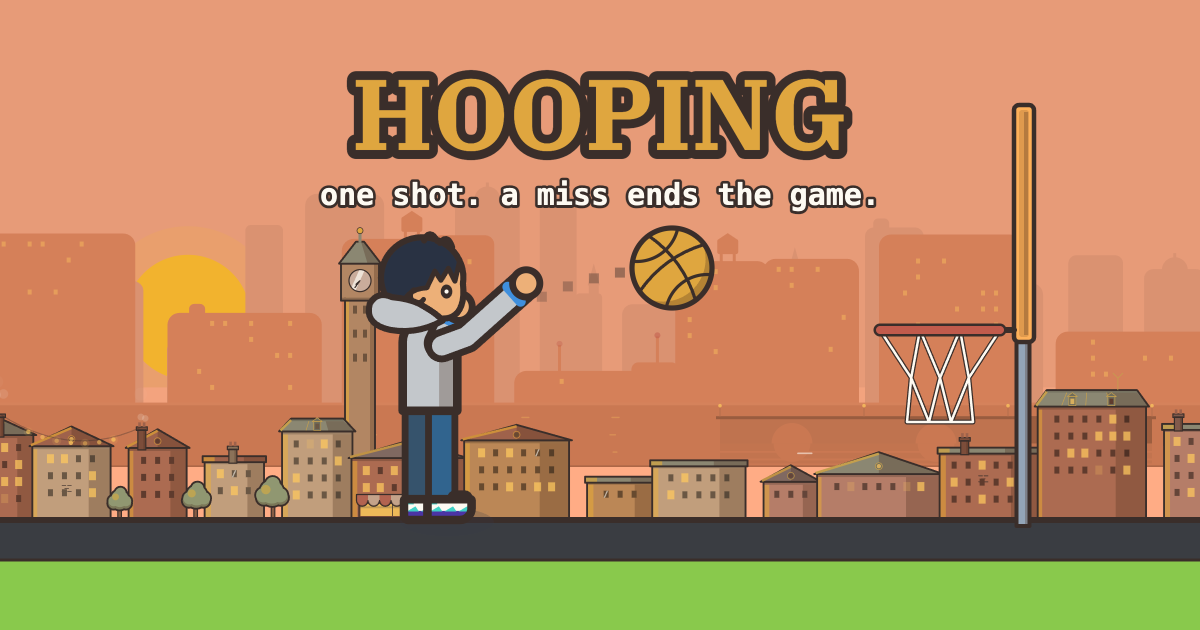
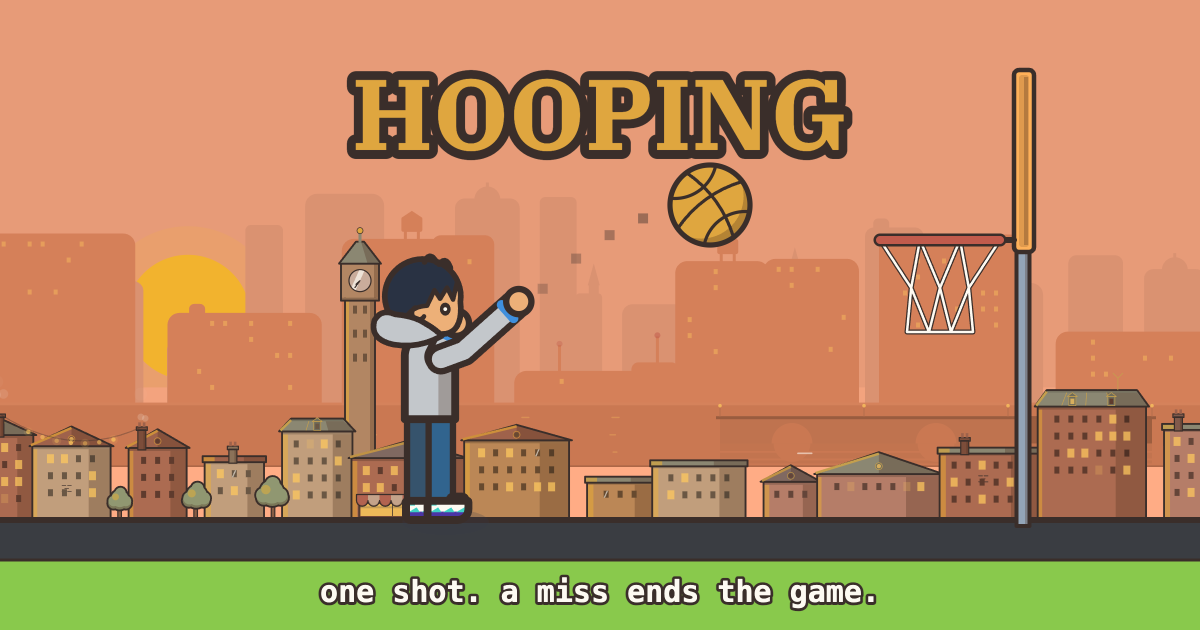
share: raise the unfurl card's rim above the shooter

diff --git a/components/Hoop.tsx b/components/Hoop.tsx
@@ -4535,13 +4535,14 @@ export function Hoop() {
     ctx.lineTo(W, grassY + 40);
     ctx.stroke();
 
-    // the hoop — board, iron, net in the live scene's proportions,
-    // planted at the right edge so the shot has somewhere to land
+    // the hoop — board, iron, net, planted at the right edge so the
+    // shot has somewhere to land. The iron rides well above the
+    // shooter's head: a rim at shoulder height reads as a toy
     const frontX = 880;
     const backX = frontX + 120;
-    const rimY = 330;
+    const rimY = 240;
     const boardX = backX + 14;
-    const bTop = rimY - 225;
+    const bTop = rimY - 170;
     const bBot = rimY + 12;
     ctx.lineJoin = "round";
     ctx.lineCap = "round";
@@ -4625,14 +4626,14 @@ export function Hoop() {
 
     // the little guy mid-shot, eyes on the ball — mid-frame, clear of
     // the clock tower and the sun's shoulder of the sky
-    const k = 13;
+    const k = 12;
     const feetX = 430;
     drawCreature(ctx, feetX, grassY, k, "watch", 0.001, true);
     // ghost beats trailing from his hand to the ball on its arc
     const handX = feetX + 6.6 * k;
     const handY = grassY - 16.2 * k;
-    const ballX = 672;
-    const ballY = 268;
+    const ballX = 710;
+    const ballY = 205;
     ctx.fillStyle = OUTLINE;
     for (let i = 1; i <= 5; i++) {
       const t = i / 6;
@@ -4653,11 +4654,13 @@ export function Hoop() {
     ctx.strokeText("HOOPING", 600, 150);
     ctx.fillStyle = MUSTARD;
     ctx.fillText("HOOPING", 600, 150);
+    // the one line of copy rides the grass, like the court's painted
+    // lines — the sky belongs to the shot
     ctx.font = `600 30px ui-monospace, Menlo, monospace`;
     ctx.lineWidth = 6;
-    ctx.strokeText("one shot. a miss ends the game.", 600, 205);
+    ctx.strokeText("one shot. a miss ends the game.", 600, 602);
     ctx.fillStyle = PAPER;
-    ctx.fillText("one shot. a miss ends the game.", 600, 205);
+    ctx.fillText("one shot. a miss ends the game.", 600, 602);
     return cv;
   };
 